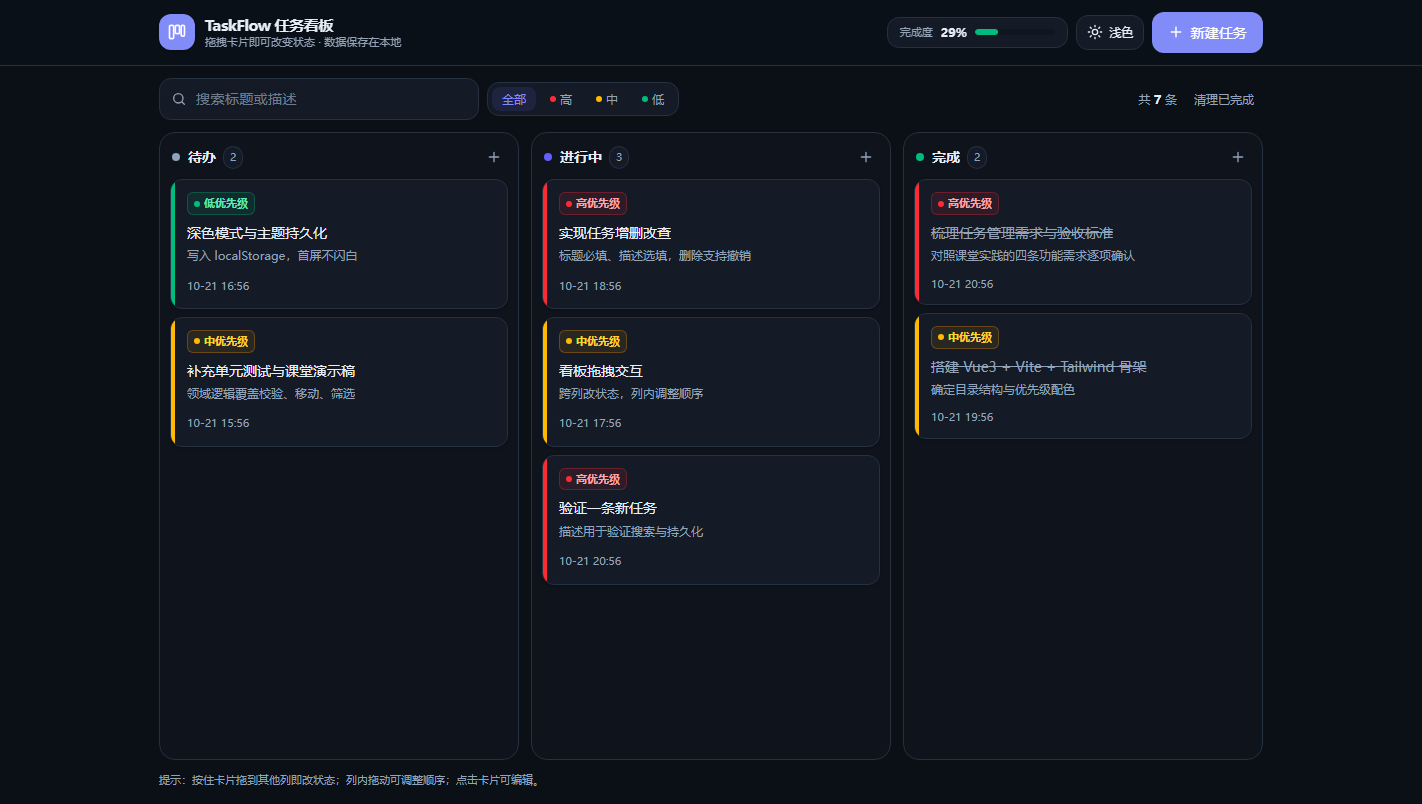
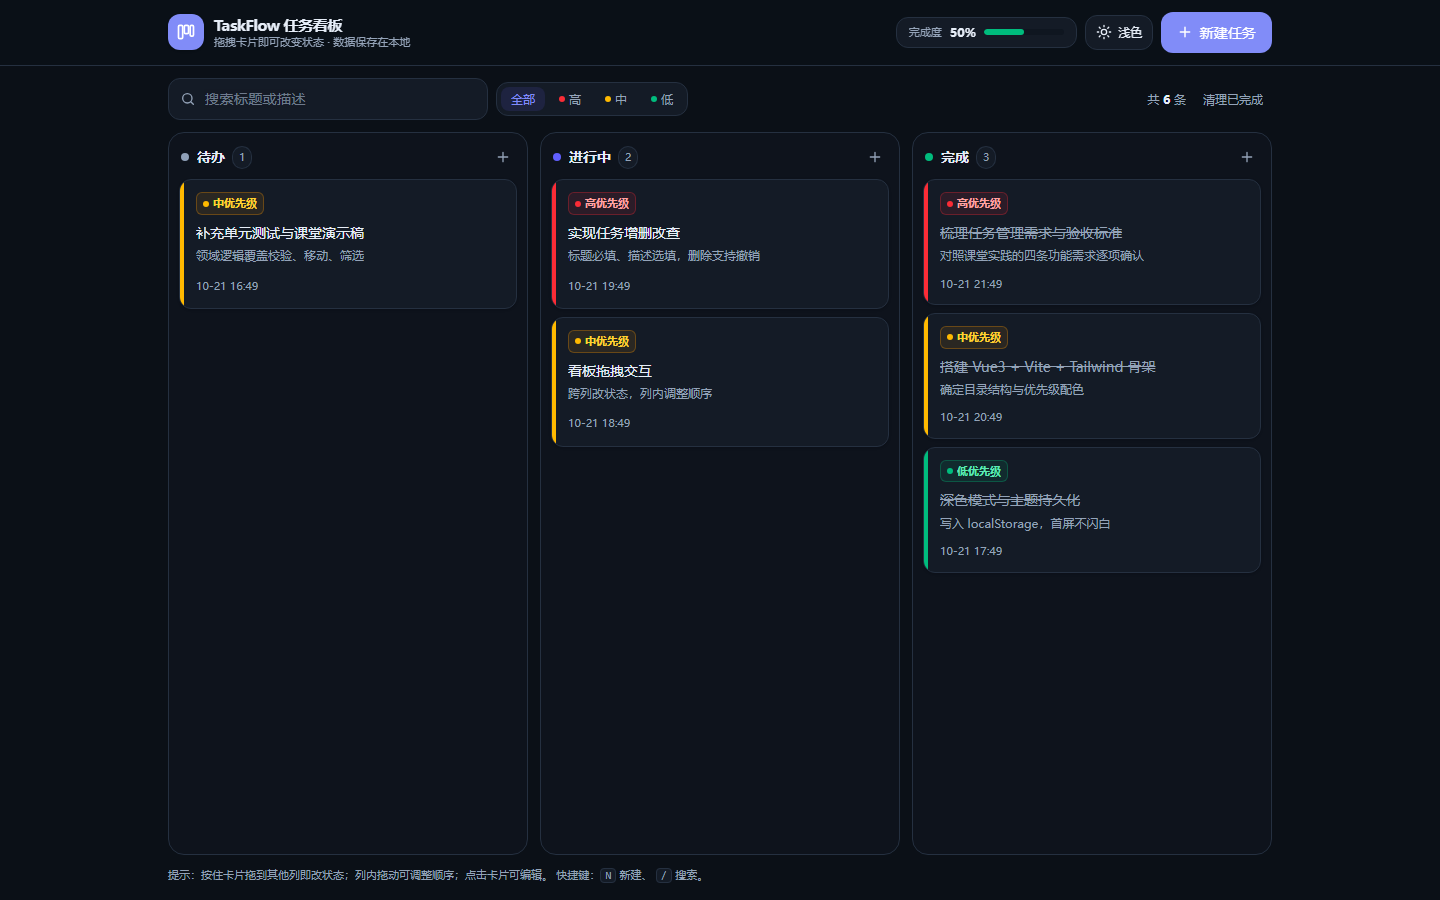
docs: 补齐逐功能运行截图与提示词设计文档
- 新增 6 张真实运行截图（拖拽中/拖拽结果/搜索/优先级筛选/删除撤销/刷新持久化），
  全部由 CDP 脚本驱动浏览器实际操作后捕获
- 新增 PROMPTS.md：五段式提示词骨架、六条设计原则、逐轮真实提示词、
  纠偏三要素模板、反模式对照与自查清单
- README 增加「交付物导航」与「功能截图」索引（每条需求对应一张图）
- 报告第六节链到完整版提示词文档

diff --git a/PROMPTS.md b/PROMPTS.md
@@ -1,0 +1,203 @@
+# 提示词设计（Prompt Design）
+
+> 本文档是课堂实践的第二项交付物：**我把需求变成提示词的全过程**。
+> 配套材料：[README](./README.md)（功能与截图索引）、[TASK.md](./TASK.md)（任务单与迭代记录）、[实践报告](./docs/课堂实践报告.md)（完整过程与验证证据）。
+
+## 一、为什么提示词本身要设计
+
+课件把开发流程定为 **计划 → 执行 → 确认** 的循环。Agent 不会自动遵守这个循环，它的行为完全由提示词里的边界决定：
+
+- 边界模糊 → Agent 一次生成几百行，人无法逐行 review，「确认」环节失效；
+- 边界清晰 → 每轮产出小、可读、可验证，才有资格进入下一轮。
+
+所以本项目的提示词不是「把需求描述得更详细」，而是**给 Agent 可验证的边界**：限定改哪些文件、给出可断言的规则、指定用什么命令验收。
+
+## 二、提示词骨架：五段式
+
+每一轮实际发出的提示词都按这五段组织，缺一段就会在某个环节返工。
+
+| 段落 | 作用 | 缺失后的典型后果 |
+| --- | --- | --- |
+| ① 角色与上下文 | 说明技术栈、已有文件、当前轮次 | Agent 自创目录结构、重复造已有模块 |
+| ② 本轮目标 | 只写这一轮要什么 | 一轮做完四轮的事，diff 无法审阅 |
+| ③ 约束 | 不许引入什么、必须遵守什么约定 | 悄悄装 UI 库 / 拖拽库，技术栈不符要求 |
+| ④ 验收标准 | 用什么命令、看什么现象算通过 | 「看起来对」就交付，bug 留到后面 |
+| ⑤ 输出形式 | 允许改哪些文件、是否先给计划 | 顺手重构无关文件，review 成本翻倍 |
+
+## 三、六条设计原则（附本项目真实用法）
+
+**1. 先约束技术栈，再谈功能**
+第一句话就锁死 `Vue3 + Vite + Tailwind v4 + localStorage`，并明确「不引入 UI 组件库、不引入拖拽库」。约束写在最前面，比写在最后一句有效得多。
+
+**2. 把规则写成可断言的句子**
+「注意性能」是无效指令；「位置与状态都未变化时返回原数组引用」可以被写成一条测试。凡是能用 `expect` 表达的规则，就直接用 expect 的语气写进提示词。
+
+**3. 描述行为，不描述实现**
+写「拖到某张卡片上时插入到它之前」，不写「在 dragover 里记录 hoverId 再用 splice 插入」。实现交给 Agent，行为必须由人定义。
+
+**4. 一次只开一个口子**
+「先只给结构，不要写业务逻辑」——这句让第 1 轮的 diff 只有 9 个文件，可以逐行读完，才有真正的「确认」。
+
+**5. 验收标准前置**
+每轮提示词末尾都带验收命令，例如「`npm test` 全绿 + 浏览器里刷新后仍有数据」。Agent 会朝着可验证的目标收敛，而不是朝「写完」收敛。
+
+**6. 纠偏时贴原文、限范围**
+失败时不要重新描述需求，而是贴原始报错 + 给出根因假设 + 限定只改一处。详见第五节。
+
+## 四、逐轮真实提示词
+
+以下提示词按实际执行顺序记录，与 Git 提交一一对应。
+
+### 第 1 轮：项目骨架（`086396f`）
+
+```
+上下文：空目录，做一个任务看板，技术栈固定 Vue3 + Vite + Tailwind CSS v4，纯前端。
+本轮目标：只建立可运行骨架——目录结构 + 一屏三列空看板（待办 / 进行中 / 完成）。
+约束：
+1. 不引入任何 UI 组件库、图标库、状态管理库；
+2. 颜色必须走 CSS 变量（语义色 canvas/surface/ink/line/brand），组件里只允许出现语义色类名，禁止硬编码 indigo-600 这类色值；
+3. 三列要等高、窄屏塌成单列。
+输出形式：先给文件清单和每个文件职责，我确认后再写代码；本轮不要写增删改查。
+验收：npm run dev 能打开，三列渲染、控制台无报错。
+```
+
+> **为什么这么写**：`先给文件清单，我确认后再写` 把「计划」显式变成一个交付步骤，避免 Agent 直接埋头写完整套。第 1 轮的产出是 9 个文件、约 300 行，可以完整读一遍。
+
+### 第 2 轮：核心功能（`34cce98`）
+
+```
+上下文：骨架已就绪（src/App.vue 只有静态三列）。
+本轮目标：实现任务的增删改查，数据先只放内存。
+约束：所有业务规则写成纯函数放在 src/lib/tasks.js，不依赖 Vue、不碰 localStorage、不读 DOM；
+组件只负责渲染和转发事件。
+规则（每条都要有对应单元测试）：
+- 标题 trim 后为空 → 抛错，不产生任何数据；标题超过 80 字 → 抛错；
+- 非法 status / priority → 回落默认值 todo / medium，不抛错；
+- updateTask 时把标题改成空 → 整次更新作废，返回原数组引用；
+- createTask 返回的对象包含 id / createdAt / updatedAt。
+输出形式：只新增 src/lib/tasks.js、src/components/TaskDialog.vue、ConfirmDialog.vue，并改 App.vue；
+不要动 index.html、style.css。
+验收：npm test 通过；浏览器里空标题点保存会提示「标题不能为空」且不新增卡片。
+```
+
+> **效果**：「返回原数组引用」这类规则被直接翻译成 `expect(next).toBe(tasks)`，断言和行为一一对应，review 时不用猜。
+
+### 第 3 轮：数据持久化（`6085288`）
+
+```
+上下文：任务只在内存里，刷新就丢。
+本轮目标：接入 localStorage，并且要能容错——历史脏数据不能让页面白屏。
+约束：
+1. 存储只有一个读写入口 src/lib/storage.js，App.vue 不许直接调 localStorage；
+2. 读取时统一走修复函数：丢弃无标题记录、非法枚举回落、缺 id 补 id、重复 id 重新分配；
+3. JSON 解析失败时降级为空列表，不要抛到顶层。
+验收：创建任务后刷新页面数据仍在；手动把 kanban.tasks.v1 改成 "{{{" 后刷新，页面正常显示空看板而不是白屏。
+```
+
+> **实战价值**：第 3 条验收是我手动把存储改坏才发现的——第一版 `JSON.parse` 抛错会让整个 app 挂掉。这条验收标准后来被固化成 `tests/storage.test.js` 里的用例。
+
+### 第 4 轮：看板交互与深色模式（`463f735`）
+
+```
+上下文：任务能存住了，但只能通过弹窗改状态。
+本轮目标：把三列变成真看板——HTML5 拖拽 + 优先级配色 + 深色模式。
+行为要求：
+- 跨列拖动改变 status，落到某张卡片上时插入到它之前，落到列空白处追加到列尾；
+- 拖拽中源卡片半透明，目标列边框高亮；
+- 拖到自己身上是空操作（不能变成「追加到列尾」）；
+- 触屏没有 HTML5 拖拽，卡片悬浮时给一个「移到下一列」按钮兜底；
+- 优先级 高=红 / 中=黄 / 低=绿，色条 + 标签同时体现，不能只靠颜色区分。
+深色模式：class 策略 + localStorage 持久化；首次访问跟随系统；首帧前就要应用主题，不能先白后黑。
+输出形式：新增 TaskColumn.vue、TaskCard.vue，改 App.vue 与 style.css；不要改 lib/tasks.js 的函数签名。
+验收：拖拽后计数与进度条同步变化；刷新后仍是深色且不闪白。
+```
+
+> **效果**：「拖到自己身上是空操作」是这轮唯一由我主动补的边界条件，后来它真的对应一个 bug——不加这条，卡片会莫名跳到列末。
+
+### 收尾轮：工程化（`339871c`）
+
+```
+上下文：六条需求已全部完成。
+本轮目标：只做工程化收尾，不加新功能。
+清单：
+1. 多标签页同步（监听 storage 事件，并用序列化结果去重，避免两个标签互相写盘）；
+2. localStorage 写入失败（隐私模式 / 配额满）要有提示，不能静默丢数据；
+3. 快捷键 N 新建、/ 聚焦搜索，输入框内不抢键；
+4. 补 tests/storage.test.js；加 GitHub Actions（npm ci → test → build）；加 MIT LICENSE。
+输出形式：允许改 App.vue / lib/storage.js / README，新增测试与 workflow；不要把任务数据格式改掉。
+验收：npm test 全绿、npm run build 成功、Actions 绿勾。
+```
+
+## 五、纠偏提示词：三要素模板
+
+Agent 出错时，最省时间的做法不是「重新描述需求」，而是：
+
+```
+① 贴原始报错（不改写、不总结）
+② 给出根因假设（一句话）
+③ 限定修改范围（只改哪个函数 / 文件）
+```
+
+**案例 A：同列排序错位**
+
+```
+npm test 失败：
+  Expected: "B", "A", "C"
+  Received: "A", "B", "C"
+moveTask 的插入位置算错了：beforeId 应该在移除自身之后再定位。
+只修改 moveTask，其他不要动。
+```
+
+一次修好，diff 只有 6 行。
+
+**案例 B：验证脚本报 null**
+
+```
+脚本报错：Cannot set properties of null (reading 'click')
+根因是页面还没渲染完就去点按钮，不是选择器写错。
+只改等待逻辑：等 article 出现再操作，不要用固定 sleep 堆时间。
+```
+
+**案例 C：拖拽边界**
+
+```
+把卡片拖到自己身上时，卡片会跳到列尾。原因是 beforeId === id 时没有短路。
+在 moveTask 里加一行：beforeId 与自身相同时直接返回原数组，并补一条测试。
+```
+
+## 六、反模式对照
+
+| 反模式 | 为什么无效 | 改成 |
+| --- | --- | --- |
+| 「做一个任务管理应用」 | 范围无限，Agent 自由发挥 | 「只做三列空看板，不要业务逻辑」 |
+| 「注意代码质量」 | 不可验证 | 「业务规则写成纯函数，每条规则配一条单测」 |
+| 「做得好看一点」 | 主观，无法验收 | 「卡片左侧 4px 色条表示优先级，高红中黄低绿」 |
+| 「修复拖拽的 bug」 | 没有信息量 | 「贴报错 + 根因假设 + 只改 moveTask」 |
+| 「顺便优化一下」 | 顺手重构污染 diff | 「本轮不要改无关文件，只允许改 X」 |
+| 一次给全量需求 | diff 太大无法 review | 按 骨架 → 功能 → 持久化 → 交互 拆轮 |
+| 只描述实现 | Agent 会照抄错误方案 | 描述用户可见行为，实现交给 Agent |
+| 验收靠肉眼 | 「看起来对」不等于对 | 给命令：`npm test`、刷新后数据仍在 |
+
+## 七、提示词自查清单
+
+发出提示词前逐条对照（本项目每轮都过了这一遍）：
+
+- [ ] 是否写清技术栈与「不许引入什么」？
+- [ ] 本轮目标能否用一句话说清，且不含下一轮的内容？
+- [ ] 是否有至少一条**可以被测试或命令验证**的验收标准？
+- [ ] 是否指明可以改哪些文件，其余不许动？
+- [ ] 业务规则是否用可断言的句式（返回原引用 / 抛错 / 回落默认值）写出？
+- [ ] 交互只说行为，没有替 Agent 决定实现？
+- [ ] 如果是纠偏，是否贴了原始报错并限定了修改范围？
+
+## 八、提示词与产出的对应关系
+
+| 轮次 | 提示词重点 | 提交 | 验收方式 |
+| --- | --- | --- | --- |
+| 1 | 骨架 + 技术栈约束 | `086396f` | `npm run dev` 三列渲染 |
+| 2 | 规则可断言 + 纯函数分层 | `34cce98` | `npm test` + 空标题拦截 |
+| 3 | 容错读取 + 单一存储入口 | `6085288` | 刷新不丢、坏数据不白屏 |
+| 4 | 行为描述 + 拖拽边界条件 | `463f735` | 拖拽计数同步、深色不闪白 |
+| 收尾 | 清单式收尾 + 不许改数据格式 | `339871c` | 37 条测试 + CI 绿勾 |
+
+截图位置见 [README 的功能截图索引](./README.md#功能截图每条需求对应一张实际运行截图)。

diff --git a/README.md b/README.md
@@ -9,6 +9,16 @@
 
 技术栈：**Vue 3 + Vite + Tailwind CSS v4 + localStorage**（无后端、无第三方 UI 库）。
 
+## 交付物导航
+
+| 交付项 | 位置 |
+| --- | --- |
+| GitHub 仓库 | <https://github.com/workwolfward/task-kanban> |
+| 每个功能的运行截图 | 本页 [功能截图](#功能截图每条需求对应一张实际运行截图) · [`docs/screenshots/`](./docs/screenshots) |
+| 提示词设计 | [`PROMPTS.md`](./PROMPTS.md) |
+| 实践报告（过程 / 验证 / 演示稿） | [`docs/课堂实践报告.md`](./docs/课堂实践报告.md) |
+| 任务单（计划 / 范围 / 验收） | [`TASK.md`](./TASK.md) |
+
 ![浅色看板](docs/screenshots/01-board-light.png)
 
 ![深色模式](docs/screenshots/04-board-dark.png)
@@ -47,6 +57,25 @@ npm test         # 单元测试（vitest，37 条）
 - **多标签页同步**：另一个标签页改了任务或主题，当前页通过 `storage` 事件自动跟随
 - **快捷键**：`N` 新建任务、`/` 聚焦搜索（在输入框内不抢键）
 - **写入失败有反馈**：localStorage 被禁用或配额满时提示，而不是静默丢数据
+
+## 功能截图（每条需求对应一张实际运行截图）
+
+截图不是画的原型图，全部由脚本驱动真实浏览器操作后捕获（headless Chrome + CDP），因此每张图里的数字、提示文案都是程序当时的真实输出。
+
+| 功能 | 截图 |
+| --- | --- |
+| **① 新建任务 + 标题必填校验**：空标题保存时输入框下方提示「标题不能为空」，不产生卡片 | <img src="docs/screenshots/02-dialog-validation.png" width="420" alt="新建任务弹窗与空标题校验提示" /> |
+| **② 三种状态 + 三档优先级**：待办 / 进行中 / 完成三列，卡片左侧色条与标签同时表示高红、中黄、低绿 | <img src="docs/screenshots/03-board-created.png" width="420" alt="三列看板与优先级配色" /> |
+| **③ 编辑任务**：点击卡片打开弹窗，字段回填原值，可改标题 / 描述 / 优先级 / 状态 | <img src="docs/screenshots/06-dialog-edit.png" width="420" alt="编辑任务弹窗回填原值" /> |
+| **④ 删除二次确认**：删除前弹确认框，避免误删 | <img src="docs/screenshots/07-confirm-delete.png" width="420" alt="删除二次确认弹窗" /> |
+| **⑤ 删除后撤销**：底部提示条给出「撤销」，点一下原位置恢复 | <img src="docs/screenshots/12-delete-undo-toast.png" width="420" alt="删除后的可撤销提示条" /> |
+| **⑥ 拖拽进行中**：源卡片半透明，目标列边框高亮，表示松手会落到这一列 | <img src="docs/screenshots/08-drag-in-progress.png" width="420" alt="拖拽过程中的视觉反馈" /> |
+| **⑦ 拖拽落点结果**：卡片进入「完成」列，计数与顶部完成度同步变化，并提示「已移到完成」 | <img src="docs/screenshots/09-drag-dropped.png" width="420" alt="拖拽后卡片改变状态" /> |
+| **⑧ 搜索**：按标题或描述过滤，显示「筛选结果 1 / 6 条」与重置入口 | <img src="docs/screenshots/10-search-filter.png" width="420" alt="搜索过滤结果" /> |
+| **⑨ 优先级筛选**：只看「高」优先级任务 | <img src="docs/screenshots/11-priority-filter.png" width="420" alt="按优先级筛选" /> |
+| **⑩ 刷新后数据保留**：F5 之后 6 条任务、状态、优先级、主题全部还在 | <img src="docs/screenshots/13-persistence-after-reload.png" width="420" alt="刷新后数据仍在" /> |
+| **⑪ 深色模式**：一键切换，写入 localStorage，刷新后保持 | <img src="docs/screenshots/04-board-dark.png" width="420" alt="深色模式看板" /> |
+| **⑫ 移动端 / 无鼠标场景**：窄屏塌成单列，卡片提供「移到下一列」按钮替代拖拽 | <img src="docs/screenshots/05-mobile.png" width="420" alt="移动端单列布局" /> |
 
 ## 开发过程（四轮迭代）
 
@@ -130,7 +159,8 @@ $ npm run build
 
 ## 文档
 
+- [`PROMPTS.md`](./PROMPTS.md)：**提示词设计**——五段式骨架、六条原则、逐轮真实提示词、纠偏模板、反模式对照
 - [`TASK.md`](./TASK.md)：任务单（目标 / 范围 / 约束 / 验收 / 停止条件）与四轮迭代记录
-- [`docs/课堂实践报告.md`](./docs/课堂实践报告.md)：实践报告（提示词设计、验证证据、演示脚本）
-- [`docs/screenshots/`](./docs/screenshots)：浅色 / 深色 / 弹窗 / 移动端截图
+- [`docs/课堂实践报告.md`](./docs/课堂实践报告.md)：实践报告（需求拆解、验证证据、踩坑记录、演示脚本）
+- [`docs/screenshots/`](./docs/screenshots)：13 张实际运行截图（浅色 / 深色 / 弹窗 / 拖拽 / 筛选 / 移动端）
 - [`LICENSE`](./LICENSE)：MIT

diff --git a/docs/课堂实践报告.md b/docs/课堂实践报告.md
@@ -182,6 +182,8 @@ dist/assets/index-*.js          102.77 kB │ gzip: 39.02 kB
 
 ## 六、提示词设计（Agentic 开发的关键）
 
+> 完整版见仓库根目录 [`PROMPTS.md`](../PROMPTS.md)：五段式骨架、六条设计原则、逐轮真实提示词、纠偏模板、反模式对照表与自查清单。本节保留最核心的四条模板。
+
 实践里最有效的不是「写得更详细」，而是**给 Agent 可验证的边界**。下面四条是实际使用中效果最好的模板。
 
 **1. 骨架阶段：先约束，再动手**
